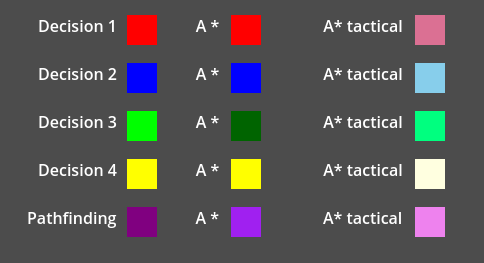
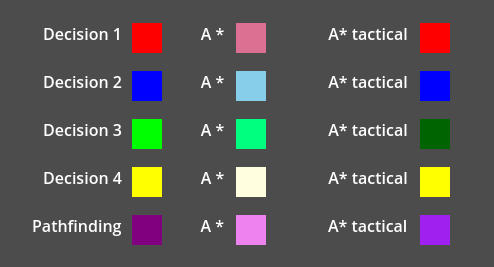
modified readme

Changed region(s): [[0.6508, 0.0304, 0.9298, 0.943], [0.031, 0.0304, 0.3409, 0.943], [0.4029, 0.0304, 0.5579, 0.943]]

diff --git a/README.md b/README.md
@@ -68,7 +68,7 @@ Para esta entrega se agregaron diversas funcionalidades con los siguientes boton
 	W : Hace visibles/invisibles los sprites de los nodos tácticos
 
 Las líneas que se generan para el pathfinding de los enemigos son del mismo color que el color asociado al enemigo
-según su máquina de estado, solo el enemigo 5 hace únicamente pathfinding y no está asociado a ninguna máquina de estado. El color más claro indica el camino generado por A* y el color más oscuro indica el camino generado por A* considerando el peso de los puntos tácticos. Como se indica en la siguiente figura:
+según su máquina de estado, solo el enemigo 5 hace únicamente pathfinding y no está asociado a ninguna máquina de estado. El color más claro indica el camino generado por A* y el color más oscuro indica el camino generado por el A* táctico. Como se indica en la siguiente figura:
 
 <img src="images/lineas.png" alt="lineas"/>
 
